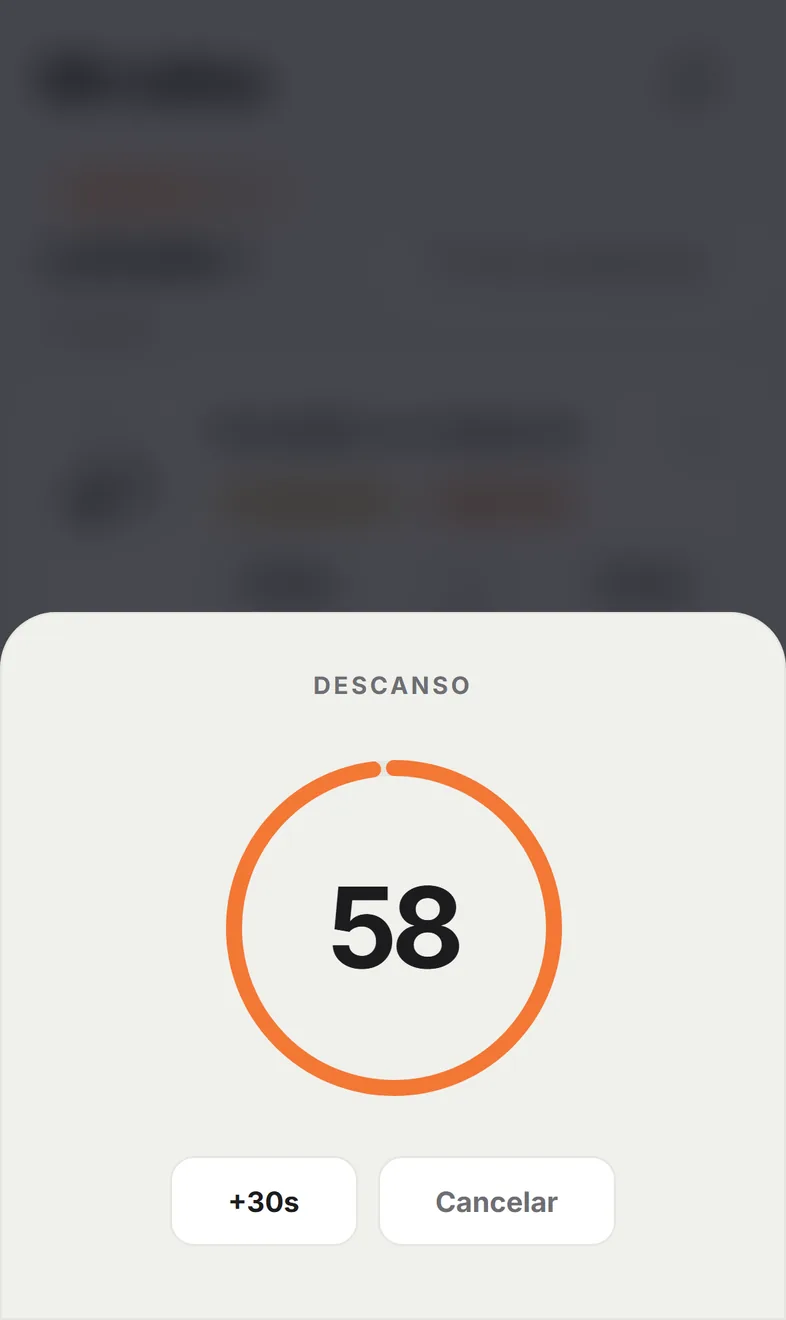
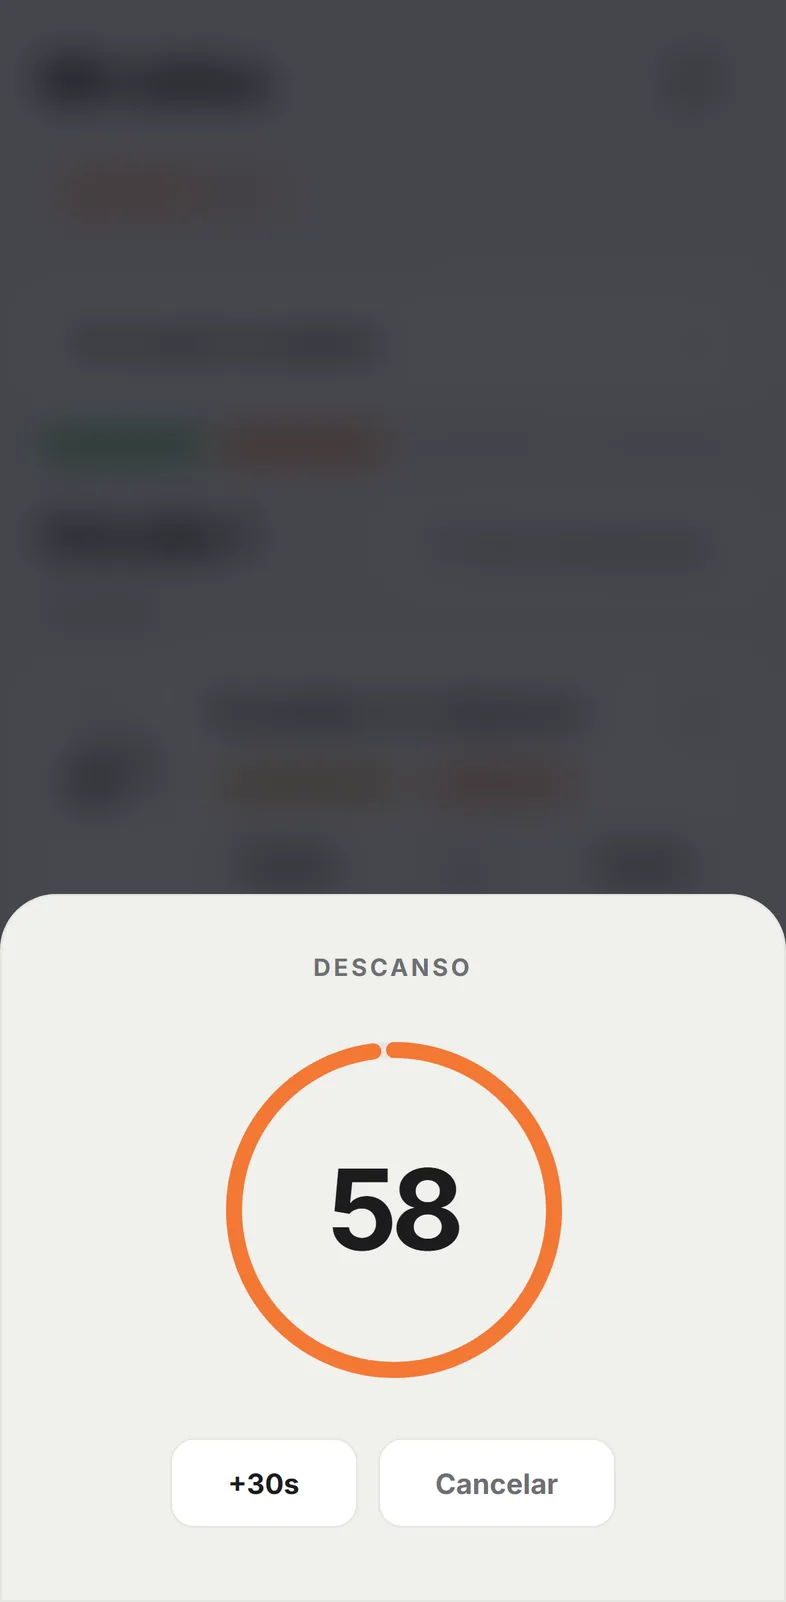
El marco del teléfono era casi cuadrado, no un iPhone
Medido: 372x659, proporción 1,77. Un iPhone es 2,17.

La causa estaba en la captura, no en el CSS: el descriptor
devices['iPhone 14 Pro'] de Playwright no usa el viewport real (393x852)
sino uno recortado, y las capturas salieron a 393x660. Se fija el
viewport a mano en 393x801 — los 51px que faltan son los que ocupa la
barra de estado que ahora dibuja la landing, para que el conjunto quede
en proporción. Resultado: 2,10.

Y el marco pasa de rectángulo negro a iPhone creíble: banda metálica con
degradado, bisel, isla dinámica, barra de estado con 9:41 y los iconos
de señal, wifi y batería, y un reflejo sobre el cristal. Todo en CSS,
escalado con unidades de contenedor para que funcione igual en el
teléfono grande del hero y en los pequeños de las tarjetas.

Las capturas del cronómetro y del chat llevan la barra en oscuro, porque
en esas pantallas el fondo de arriba está atenuado.

Changed region(s): [[0.0, 0.4659, 1.0, 0.8697], [0.5496, 0.9008, 0.7023, 0.9318], [0.2748, 0.9008, 0.3969, 0.9318]]

diff --git a/landing/index.html b/landing/index.html
@@ -282,9 +282,60 @@ header {
 }
 
 /* ── Marco de teléfono ──────────────────────────────────────── */
-.phone { background: #0C0C0E; border-radius: 38px; padding: 8px; box-shadow: var(--shadow-phone); width: 100%; max-width: 336px; }
-.phone img { border-radius: 31px; }
-.phone-lg { max-width: 372px; }
+/* Marco de iPhone: banda metálica, bisel, isla dinámica y barra de estado.
+   Antes era un rectángulo negro y las capturas no se leían como un teléfono. */
+.phone {
+  position: relative; width: 100%; max-width: 336px;
+  border-radius: 15%/7.4%;
+  padding: 0.8%;
+  background: linear-gradient(148deg, #A49CA9 0%, #3A373D 13%, #CFC7D3 27%, #46434A 42%,
+                              #B2AAB7 58%, #35323A 73%, #C4BCC8 88%, #3E3B42 100%);
+  box-shadow: var(--shadow-phone);
+}
+.phone-body {
+  position: relative; border-radius: 14.2%/7%;
+  padding: 2.1%; background: #08080A;
+}
+/* El reflejo va sobre la pantalla, no sobre el marco */
+.phone-body::after {
+  content: ''; position: absolute; inset: 2.1%; border-radius: 12.4%/6.2%;
+  pointer-events: none; z-index: 3;
+  background: linear-gradient(118deg, rgba(255,255,255,.13) 0%, rgba(255,255,255,0) 24%,
+                              rgba(255,255,255,0) 76%, rgba(255,255,255,.055) 100%);
+}
+.phone-screen {
+  position: relative; overflow: hidden;
+  border-radius: 12.6%/6.3%;
+  background: var(--bg);
+  container-type: inline-size;
+}
+.phone-screen img { display: block; width: 100%; }
+
+/* Barra de estado: las capturas se tomaron sin ella, así que se dibuja aquí
+   —igual que el hueco que deja el área segura en un iPhone real. */
+.status {
+  position: relative; z-index: 2;
+  display: flex; align-items: flex-start; justify-content: space-between;
+  height: 46px; height: 14.6cqw;
+  padding: 4.4cqw 7cqw 0 8.4cqw;
+  color: #1C1C1E;
+  font-family: var(--font-d); font-weight: 700;
+  font-size: 13px; font-size: 4.1cqw; letter-spacing: -.02em; line-height: 1;
+}
+.st-ic { display: flex; align-items: center; }
+/* Sin viewBox propio el <svg> toma 300x150 por defecto y los iconos se
+   salían de la barra: hay que darle las dos dimensiones. */
+.st-ic svg { width: 52px; height: 15.6px; width: 16.5cqw; height: 4.95cqw; fill: currentColor; }
+.island {
+  position: absolute; left: 50%; top: 3cqw; transform: translateX(-50%);
+  width: 92px; width: 27.5cqw;
+  height: 30px; height: 9cqw;
+  border-radius: 100px; background: #08080A;
+}
+/* Capturas con overlay oscuro arriba (cronómetro y chat): la barra se invierte */
+.phone[data-status="dark"] .phone-screen { background: #57575B; }
+.phone[data-status="dark"] .status { color: #fff; }
+.phone-lg { max-width: 306px; }
 .hero-art { display: flex; justify-content: center; position: relative; }
 .hero-art::before {
   content: ''; position: absolute; inset: -6% -14%;
@@ -454,6 +505,18 @@ footer { border-top: 1px solid var(--b); padding: 56px 0 40px; }
   <symbol id="i-user" viewBox="0 0 24 24"><circle cx="12" cy="8" r="3.6"/><path d="M4.5 20c.7-3.9 3.8-6 7.5-6s6.8 2.1 7.5 6"/></symbol>
   <symbol id="i-grupo" viewBox="0 0 24 24"><circle cx="9" cy="8" r="3.2"/><path d="M2.5 20c.6-3.5 3.2-5.4 6.5-5.4s5.9 1.9 6.5 5.4"/><path d="M16.5 5.4a3.2 3.2 0 0 1 0 5.2M18 14.9c2.2.6 3.4 2.4 3.8 5.1"/></symbol>
   <symbol id="i-grafico" viewBox="0 0 24 24"><path d="M5.5 20v-6M12 20V4M18.5 20v-9"/></symbol>
+  <symbol id="i-status" viewBox="0 0 80 24" fill="currentColor" stroke="none">
+    <rect x="0" y="12" width="3.4" height="6" rx="1.1"/>
+    <rect x="5.4" y="9" width="3.4" height="9" rx="1.1"/>
+    <rect x="10.8" y="5.6" width="3.4" height="12.4" rx="1.1"/>
+    <rect x="16.2" y="2.6" width="3.4" height="15.4" rx="1.1"/>
+    <path d="M25.4 8.1a11.4 11.4 0 0 1 14.2 0l-1.9 2.4a8.4 8.4 0 0 0-10.4 0z"/>
+    <path d="M28.7 12.2a6.6 6.6 0 0 1 7.6 0l-2 2.5a3.6 3.6 0 0 0-3.6 0z"/>
+    <path d="M32.5 16.3l2.2 2.6-2.2 2.6-2.2-2.6z"/>
+    <rect x="48" y="5.2" width="24" height="13.4" rx="4.2" fill="none" stroke="currentColor" stroke-width="1.5" opacity=".4"/>
+    <rect x="50" y="7.2" width="17" height="9.4" rx="2.6"/>
+    <path d="M74 9.6v4.6c1.3-.4 2-1.1 2-2.3s-.7-1.9-2-2.3z" opacity=".4"/>
+  </symbol>
   <symbol id="i-comida" viewBox="0 0 24 24"><path d="M6 3v7a2 2 0 0 0 4 0V3M8 10v11M17.5 3c-1.4 1-2 2.6-2 4.5 0 1.6.6 2.7 2 3.2V21"/></symbol>
 </svg>
 
@@ -494,7 +557,12 @@ footer { border-top: 1px solid var(--b); padding: 56px 0 40px; }
     </div>
     <div class="hero-art">
       <div class="phone phone-lg">
-        <img src="/landing/img/01_atleta_hoy.webp" width="786" height="1320" alt="Pantalla de inicio de Mi Rutina: el entrenamiento del día, comidas y la semana" fetchpriority="high">
+        <div class="phone-body">
+          <div class="phone-screen">
+            <div class="status"><span class="st-time">9:41</span><span class="island"></span><span class="st-ic"><svg><use href="#i-status"/></svg></span></div>
+            <img src="/landing/img/01_atleta_hoy.webp" width="786" height="1320" alt="Pantalla de inicio de Mi Rutina: el entrenamiento del día, comidas y la semana" fetchpriority="high">
+          </div>
+        </div>
       </div>
     </div>
   </div>
@@ -548,12 +616,26 @@ footer { border-top: 1px solid var(--b); padding: 56px 0 40px; }
       <div class="split-panel">
         <h3 class="d3">Abres la app, haces lo que toca.</h3>
         <p class="lead">Tu coach diseña tu rutina. La app te dice qué hacer hoy. La IA responde tus dudas en plena serie.</p>
-        <div class="split-art"><div class="phone"><img src="/landing/img/03_atleta_circuito.webp" width="786" height="1320" alt="Circuito de la rutina con miniaturas animadas de cada ejercicio" loading="lazy"></div></div>
+        <div class="split-art"><div class="phone">
+        <div class="phone-body">
+          <div class="phone-screen">
+            <div class="status"><span class="st-time">9:41</span><span class="island"></span><span class="st-ic"><svg><use href="#i-status"/></svg></span></div>
+            <img src="/landing/img/03_atleta_circuito.webp" width="786" height="1320" alt="Circuito de la rutina con miniaturas animadas de cada ejercicio" loading="lazy">
+          </div>
+        </div>
+      </div></div>
       </div>
       <div class="split-panel">
         <h3 class="d3">Más clientes. Menos WhatsApp y Excel.</h3>
         <p class="lead">Armas la semana en cinco minutos, ves lo que entrenó cada atleta y dejas que entrene solo — bien.</p>
-        <div class="split-art"><div class="phone"><img src="/landing/img/11_coach_editor.webp" width="786" height="1320" alt="Editor de rutinas del portal del entrenador" loading="lazy"></div></div>
+        <div class="split-art"><div class="phone">
+        <div class="phone-body">
+          <div class="phone-screen">
+            <div class="status"><span class="st-time">9:41</span><span class="island"></span><span class="st-ic"><svg><use href="#i-status"/></svg></span></div>
+            <img src="/landing/img/11_coach_editor.webp" width="786" height="1320" alt="Editor de rutinas del portal del entrenador" loading="lazy">
+          </div>
+        </div>
+      </div></div>
       </div>
     </div>
   </div>
@@ -581,7 +663,14 @@ footer { border-top: 1px solid var(--b); padding: 56px 0 40px; }
           <li><svg><use href="#i-check"/></svg> Drop sets y piramidales soportados</li>
         </ul>
       </div>
-      <div class="feat-art"><div class="phone"><img src="/landing/img/03_atleta_circuito.webp" width="786" height="1320" alt="Circuito con cuatro ejercicios, cada uno con su miniatura animada" loading="lazy"></div></div>
+      <div class="feat-art"><div class="phone">
+        <div class="phone-body">
+          <div class="phone-screen">
+            <div class="status"><span class="st-time">9:41</span><span class="island"></span><span class="st-ic"><svg><use href="#i-status"/></svg></span></div>
+            <img src="/landing/img/03_atleta_circuito.webp" width="786" height="1320" alt="Circuito con cuatro ejercicios, cada uno con su miniatura animada" loading="lazy">
+          </div>
+        </div>
+      </div></div>
     </div>
 
     <div class="feat flip reveal">
@@ -595,7 +684,14 @@ footer { border-top: 1px solid var(--b); padding: 56px 0 40px; }
           <li><svg><use href="#i-check"/></svg> Cargado de antemano: no hay que esperar</li>
         </ul>
       </div>
-      <div class="feat-art"><div class="phone"><img src="/landing/img/04_atleta_tecnica_gif.webp" width="786" height="1320" alt="Panel de técnica abierto con el GIF del ejercicio en grande" loading="lazy"></div></div>
+      <div class="feat-art"><div class="phone">
+        <div class="phone-body">
+          <div class="phone-screen">
+            <div class="status"><span class="st-time">9:41</span><span class="island"></span><span class="st-ic"><svg><use href="#i-status"/></svg></span></div>
+            <img src="/landing/img/04_atleta_tecnica_gif.webp" width="786" height="1320" alt="Panel de técnica abierto con el GIF del ejercicio en grande" loading="lazy">
+          </div>
+        </div>
+      </div></div>
     </div>
 
     <div class="feat reveal">
@@ -609,7 +705,14 @@ footer { border-top: 1px solid var(--b); padding: 56px 0 40px; }
           <li><svg><use href="#i-check"/></svg> Recomendaciones según tu objetivo</li>
         </ul>
       </div>
-      <div class="feat-art"><div class="phone"><img src="/landing/img/06_atleta_comidas.webp" width="786" height="1320" alt="Registro de comidas del día en Mi Rutina" loading="lazy"></div></div>
+      <div class="feat-art"><div class="phone">
+        <div class="phone-body">
+          <div class="phone-screen">
+            <div class="status"><span class="st-time">9:41</span><span class="island"></span><span class="st-ic"><svg><use href="#i-status"/></svg></span></div>
+            <img src="/landing/img/06_atleta_comidas.webp" width="786" height="1320" alt="Registro de comidas del día en Mi Rutina" loading="lazy">
+          </div>
+        </div>
+      </div></div>
     </div>
 
     <div class="feat flip reveal">
@@ -623,19 +726,40 @@ footer { border-top: 1px solid var(--b); padding: 56px 0 40px; }
           <li><svg><use href="#i-check"/></svg> Reportes que llegan solos a tu correo</li>
         </ul>
       </div>
-      <div class="feat-art"><div class="phone"><img src="/landing/img/07_atleta_progreso.webp" width="786" height="1320" alt="Pantalla de progreso del atleta" loading="lazy"></div></div>
+      <div class="feat-art"><div class="phone">
+        <div class="phone-body">
+          <div class="phone-screen">
+            <div class="status"><span class="st-time">9:41</span><span class="island"></span><span class="st-ic"><svg><use href="#i-status"/></svg></span></div>
+            <img src="/landing/img/07_atleta_progreso.webp" width="786" height="1320" alt="Pantalla de progreso del atleta" loading="lazy">
+          </div>
+        </div>
+      </div></div>
     </div>
 
     <div class="duo reveal">
       <div class="duo-card">
         <h3>Descanso cronometrado</h3>
         <p>60, 90 o 120 segundos entre series, con un toque. Opcional: nada arranca solo, la espera sigue siendo tuya.</p>
-        <div class="duo-shot"><div class="phone"><img src="/landing/img/05_atleta_descanso.webp" width="786" height="1320" alt="Cronómetro de descanso" loading="lazy"></div></div>
+        <div class="duo-shot"><div class="phone" data-status="dark">
+        <div class="phone-body">
+          <div class="phone-screen">
+            <div class="status"><span class="st-time">9:41</span><span class="island"></span><span class="st-ic"><svg><use href="#i-status"/></svg></span></div>
+            <img src="/landing/img/05_atleta_descanso.webp" width="786" height="1320" alt="Cronómetro de descanso" loading="lazy">
+          </div>
+        </div>
+      </div></div>
       </div>
       <div class="duo-card">
         <h3>Asistente IA 24/7</h3>
         <p>«Me duele la muñeca en las elevaciones» — y responde según tu rutina real, tus pesos y tu historial. En español, al toque.</p>
-        <div class="duo-shot"><div class="phone"><img src="/landing/img/09_atleta_asistente.webp" width="786" height="1320" alt="Asistente de IA respondiendo una duda sobre la rutina" loading="lazy"></div></div>
+        <div class="duo-shot"><div class="phone" data-status="dark">
+        <div class="phone-body">
+          <div class="phone-screen">
+            <div class="status"><span class="st-time">9:41</span><span class="island"></span><span class="st-ic"><svg><use href="#i-status"/></svg></span></div>
+            <img src="/landing/img/09_atleta_asistente.webp" width="786" height="1320" alt="Asistente de IA respondiendo una duda sobre la rutina" loading="lazy">
+          </div>
+        </div>
+      </div></div>
       </div>
     </div>
   </div>
@@ -662,7 +786,14 @@ footer { border-top: 1px solid var(--b); padding: 56px 0 40px; }
           <li><svg><use href="#i-check"/></svg> Crear un atleta toma un minuto</li>
         </ul>
       </div>
-      <div class="feat-art"><div class="phone"><img src="/landing/img/10_coach_clientes.webp" width="786" height="1320" alt="Lista de clientes del entrenador con búsqueda y filtros" loading="lazy"></div></div>
+      <div class="feat-art"><div class="phone">
+        <div class="phone-body">
+          <div class="phone-screen">
+            <div class="status"><span class="st-time">9:41</span><span class="island"></span><span class="st-ic"><svg><use href="#i-status"/></svg></span></div>
+            <img src="/landing/img/10_coach_clientes.webp" width="786" height="1320" alt="Lista de clientes del entrenador con búsqueda y filtros" loading="lazy">
+          </div>
+        </div>
+      </div></div>
     </div>
 
     <div class="feat flip reveal">
@@ -677,7 +808,14 @@ footer { border-top: 1px solid var(--b); padding: 56px 0 40px; }
           <li><svg><use href="#i-check"/></svg> Series, reps o segundos</li>
         </ul>
       </div>
-      <div class="feat-art"><div class="phone"><img src="/landing/img/11_coach_editor.webp" width="786" height="1320" alt="Editor de rutinas con las sesiones de la semana" loading="lazy"></div></div>
+      <div class="feat-art"><div class="phone">
+        <div class="phone-body">
+          <div class="phone-screen">
+            <div class="status"><span class="st-time">9:41</span><span class="island"></span><span class="st-ic"><svg><use href="#i-status"/></svg></span></div>
+            <img src="/landing/img/11_coach_editor.webp" width="786" height="1320" alt="Editor de rutinas con las sesiones de la semana" loading="lazy">
+          </div>
+        </div>
+      </div></div>
     </div>
 
     <div class="feat reveal">
@@ -691,19 +829,40 @@ footer { border-top: 1px solid var(--b); padding: 56px 0 40px; }
           <li><svg><use href="#i-check"/></svg> Onboarding con IA: subes el PDF y llena los campos</li>
         </ul>
       </div>
-      <div class="feat-art"><div class="phone"><img src="/landing/img/14_coach_resumen.webp" width="786" height="1320" alt="Resumen del atleta en el portal del entrenador" loading="lazy"></div></div>
+      <div class="feat-art"><div class="phone">
+        <div class="phone-body">
+          <div class="phone-screen">
+            <div class="status"><span class="st-time">9:41</span><span class="island"></span><span class="st-ic"><svg><use href="#i-status"/></svg></span></div>
+            <img src="/landing/img/14_coach_resumen.webp" width="786" height="1320" alt="Resumen del atleta en el portal del entrenador" loading="lazy">
+          </div>
+        </div>
+      </div></div>
     </div>
 
     <div class="duo reveal">
       <div class="duo-card">
         <h3>Historial de sesiones</h3>
         <p>Cada rutina completada, con su fecha y la nota que dejó el atleta al terminar.</p>
-        <div class="duo-shot"><div class="phone"><img src="/landing/img/16_coach_historial.webp" width="786" height="1320" alt="Historial de sesiones completadas del atleta" loading="lazy"></div></div>
+        <div class="duo-shot"><div class="phone">
+        <div class="phone-body">
+          <div class="phone-screen">
+            <div class="status"><span class="st-time">9:41</span><span class="island"></span><span class="st-ic"><svg><use href="#i-status"/></svg></span></div>
+            <img src="/landing/img/16_coach_historial.webp" width="786" height="1320" alt="Historial de sesiones completadas del atleta" loading="lazy">
+          </div>
+        </div>
+      </div></div>
       </div>
       <div class="duo-card">
         <h3>Comidas de tu atleta</h3>
         <p>Reportes por día, con foto y macros. Ves si está comiendo lo que acordaron sin tener que preguntarlo.</p>
-        <div class="duo-shot"><div class="phone"><img src="/landing/img/15_coach_comidas.webp" width="786" height="1320" alt="Reportes de comidas del atleta vistos por el entrenador" loading="lazy"></div></div>
+        <div class="duo-shot"><div class="phone">
+        <div class="phone-body">
+          <div class="phone-screen">
+            <div class="status"><span class="st-time">9:41</span><span class="island"></span><span class="st-ic"><svg><use href="#i-status"/></svg></span></div>
+            <img src="/landing/img/15_coach_comidas.webp" width="786" height="1320" alt="Reportes de comidas del atleta vistos por el entrenador" loading="lazy">
+          </div>
+        </div>
+      </div></div>
       </div>
     </div>
   </div>
